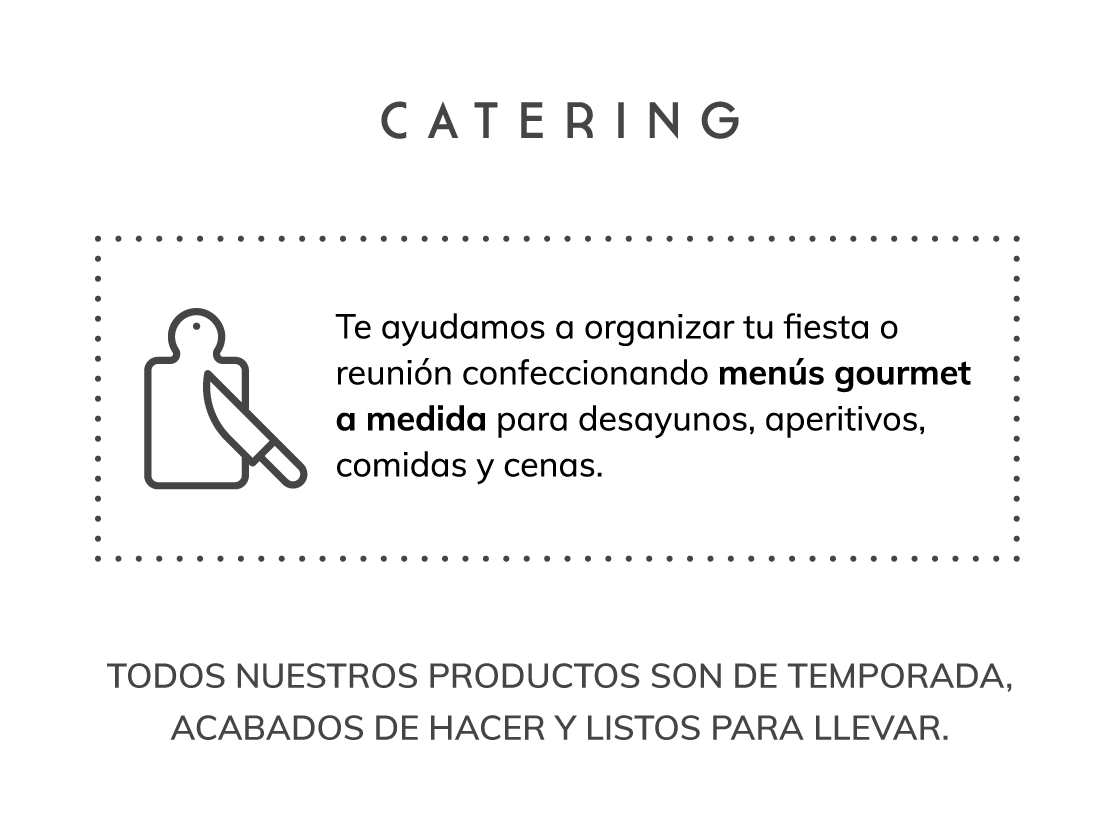
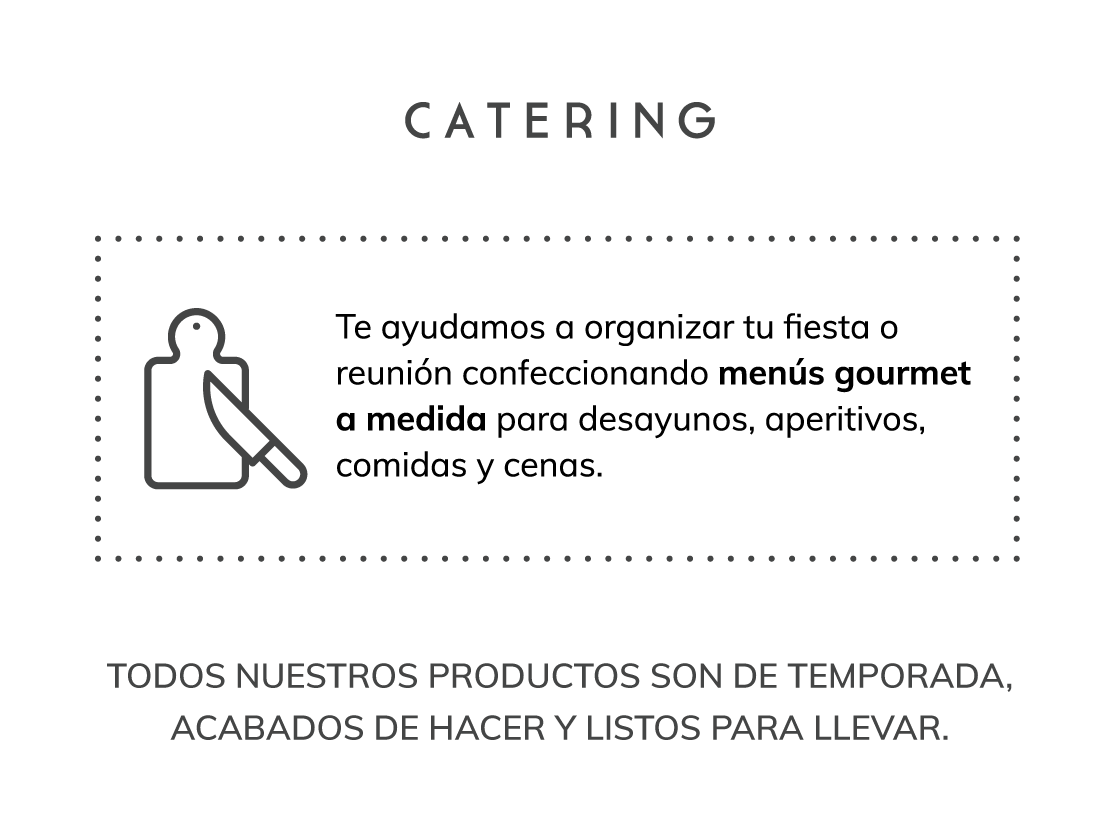
More progress…

Changed region(s): [[0.3438, 0.1238, 0.6562, 0.1857]]

diff --git a/_sass/objects.scss b/_sass/objects.scss
@@ -16,12 +16,13 @@
   justify-content: space-around;
   margin: 0;
   padding: 0;
+  text-align: center;
   > .menu-item {
     flex: 1 1 33.3333%;
   }
   .tap-logo {
-    text-align: center;
     img {
+      margin: 0 auto;
       max-width: 100%;
       width: 16em;
     }
@@ -29,13 +30,13 @@
 }
 
 .main-content {
-  align-items: flex-start;
-  display: flex;
-  justify-content: space-around;
   > article {
-    flex: 1 1 50%;
     img {
+      margin: 0 auto;
       max-width: 100%;
+      @media all and (min-width: 41em) {
+        max-width: 50%;
+      }
     }
   }
 }
@@ -61,29 +62,56 @@
 }
 
 .tap-map {
-
+  position: relative;
+  padding-bottom: 100%;
+  height: 0;
+  overflow: hidden;
+  max-width: 100%;
+  @media all and (min-width: 41em) {
+    padding-bottom: 33.3333%;
+  }
+}
+.tap-map iframe,
+.tap-map object,
+.tap-map embed {
+  position: absolute;
+  top: 0;
+  left: 0;
+  width: 100%;
+  height: 100%;
 }
 
 .home-footer {
   background-color: $g16;
   color: $w;
+  padding: 4em 0 8em;
   a {
     color: $w;
   }
   > section {
     display: flex;
-    justify-content: center;
+    justify-content: space-around;
+    margin: 0 auto;
+    max-width: 75%;
   }
   address {
     flex: 0 1 auto;
     font-style: normal;
-    margin: 0 2em;
-    min-width: 20%;
+    margin: 0 0 4em;
+    min-width: 25%;
+  }
+  dt {
+    font-size: $f14;
+    font-weight: 800;
+    margin-bottom: 1em;
+    text-transform: uppercase;
+  }
+  dd {
+    margin-top: .25em;
   }
   .tap-whitelogo {
-    padding: 2em 0;
-    text-align: center;
     img {
+      margin: 0 auto 4em;
       max-width: 100%;
       width: 8em;
     }

diff --git a/_includes/footer.html b/_includes/footer.html
@@ -1,5 +1,7 @@
 <footer class="home-footer">
-  <header class="tap-whitelogo"><img src="/-/tap.w.svg"></header>
+  <header class="tap-whitelogo">
+    <img src="/-/tap.w.svg">
+  </header>
   <section class="contact-info">
     <address>
       <dl>
@@ -22,15 +24,15 @@
 //-->
 //]]>
 </script></dd>
-</address>
-
-<address>
-  <dl>
-    <dt>Síguenos</dt>
-    <dd><a href="{{ site.tap.facebook }}" class="social-media facebook">totalpunt</a></dd>
-    <dd><a href="{{ site.tap.instagram }}" class="social-media instagram">@rostisseria_tot_al_punt</a></dd>
-    <dd><a href="{{ site.tap.twitter }}" class="social-media twitter">@totalpunt</a></dd>
-  </dl>
-</address>
-</section>
+      </dl>
+    </address>
+    <address>
+      <dl>
+        <dt>Síguenos</dt>
+        <dd><a href="{{ site.tap.facebook }}" class="social-media facebook">totalpunt</a></dd>
+        <dd><a href="{{ site.tap.instagram }}" class="social-media instagram">@rostisseria_tot_al_punt</a></dd>
+        <dd><a href="{{ site.tap.twitter }}" class="social-media twitter">@totalpunt</a></dd>
+      </dl>
+    </address>
+  </section>
 </footer>

diff --git a/index.html b/index.html
@@ -22,5 +22,5 @@ layout: default
     <img src="/-/catering.png">
     </article>
   </section>
-   <article class="tap-map"><iframe src="https://www.google.com/maps/embed?pb=!1m14!1m8!1m3!1d2993.9896034368485!2d2.0919693824425933!3d41.3743106!3m2!1i1024!2i768!4f13.1!3m3!1m2!1s0x12a4990e8e9a9ebf%3A0xd4bca81c0fcec8de!2sTot+al+punt!5e0!3m2!1sen!2ses!4v1494482660923" width="100%" height="480" frameborder="0" style="border:0; pointer-events: none;" allowfullscreen></iframe></article>
+   <article class="tap-map"><iframe src="https://www.google.com/maps/embed?pb=!1m14!1m8!1m3!1d2993.9896034368485!2d2.0919693824425933!3d41.3743106!3m2!1i1024!2i768!4f13.1!3m3!1m2!1s0x12a4990e8e9a9ebf%3A0xd4bca81c0fcec8de!2sTot+al+punt!5e0!3m2!1sen!2ses!4v1494482660923" width="100%" height="100" frameborder="0" style="border:0;" allowfullscreen></iframe></article>
 </main>

diff --git a/_sass/elements.scss b/_sass/elements.scss
@@ -1,17 +1,14 @@
 // elements.scss: unclassed HTML elements (type selectors).
 
 // *:hover { background-color: $red !important; }
-
-// * {
-//   background-color: $red;
-// }
+// * { border: 1px solid $red !important; }
 
 html {
   background-color: $g99;
   box-sizing: border-box;
   color: $g24;
   font: 100%/1.5 'Muli', 'Helvetica Neue', Helvetica, Arial, sans-serif;
-  min-height: 100%;
+  height: 100%;
   @media all and (min-width: 96em) {
     font-size: 150%;
   }
@@ -43,4 +40,8 @@ dl, dt, dd {
 
 iframe {
 
+}
+
+img {
+  display: block;
 }
